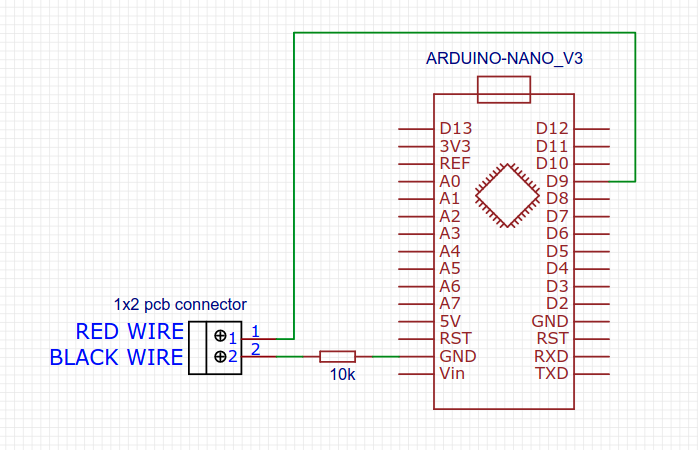
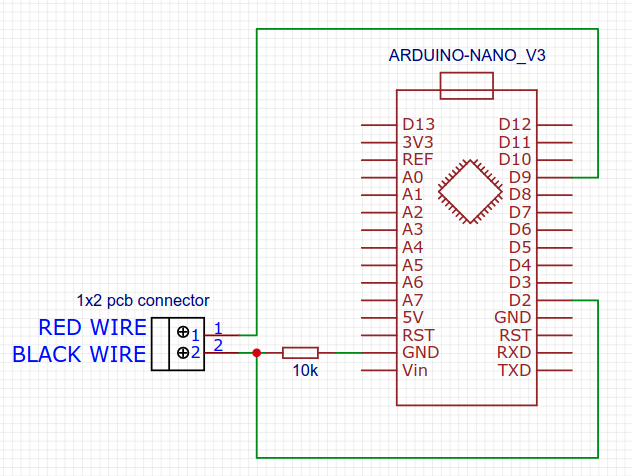
added D2 input to stop signal emitting ; also blink led when signal stopped

Changed region(s): [[0.0, 0.0311, 0.962, 0.9644]]

diff --git a/src/main.cpp b/src/main.cpp
@@ -8,9 +8,12 @@
 // - 50ms @833 hz
 // - 50ms @625 hz
 
+// #define DEBUG // TODO: comment this on release
+
 #include <Arduino.h>
 
 #define OUT_PIN 9
+#define IN_PIN 2
 #define USE_TIMER_1 true
 
 #include <TimerInterrupt.h>
@@ -26,8 +29,30 @@ int val_cnt = 0;
 int phase = 0;
 int phase_cnt = 0;
 
+volatile bool disabled = false;
+volatile uint32_t m_in = millis();
+
 void TimerISR()
 {
+  if (disabled)// && millis() - m_in > 500)
+  {
+    digitalWrite(OUT_PIN, HIGH);
+    auto v = digitalRead(IN_PIN);
+    if (v == LOW)
+    {
+      #ifdef DEBUG
+      Serial.print(millis());
+      Serial.println(" RE-ENABLE");
+      #endif
+      digitalWrite(LED_BUILTIN, LOW);
+      disabled = false;
+    }
+    else
+    {    
+      return;
+    }
+  }
+
   if (phase_cnt > CNT_PHASE)
   {
     ++phase;
@@ -76,15 +101,50 @@ void TimerISR()
   ++phase_cnt;
 }
 
+void inChgISR()
+{
+  //if (millis() - m_in > 500)
+  if (!disabled)
+  {
+#ifdef DEBUG
+    Serial.print(millis());
+    Serial.println(" DISABLED");
+#endif
+    disabled = true;
+
+    m_in = millis();
+  }
+}
+
 void setup()
 {
-  pinMode(9, OUTPUT);
+#ifdef DEBUG
+  Serial.begin(38400);
+  Serial.println("STARTUP");
+#endif
+
+  pinMode(IN_PIN, INPUT);
+  pinMode(OUT_PIN, OUTPUT);
+  pinMode(LED_BUILTIN, OUTPUT);
+  digitalWrite(LED_BUILTIN, LOW);
 
   ITimer1.init();
 
   ITimer1.attachInterrupt(TIMER_FREQ, TimerISR, 0);
+
+  attachInterrupt(digitalPinToInterrupt(IN_PIN), inChgISR, RISING);
 }
+
+uint32_t m_disabledLedBlink = 0UL;
 
 void loop()
 {
+  if (disabled)
+  {
+    if (millis() - m_disabledLedBlink > 100)
+    {
+      digitalWrite(LED_BUILTIN, digitalRead(LED_BUILTIN) == LOW ? HIGH : LOW);
+      m_disabledLedBlink = millis();
+    }
+  }
 }

diff --git a/README.md b/README.md
@@ -19,6 +19,10 @@ Generates a square signal train ( 50% duty ) on pin 9 suitable for a wire tracke
 - 50ms @833 hz
 - 50ms @625 hz
 
+Signal will completely disabled if red/black wire shorts due to triggering on pin 2 ; it will restart when short removed.
+
+[schematic](https://oshwlab.com/lorenzo.delana/iot-wire-tracker-tx)
+
 ![](doc/schematic.png)
 
 ![](doc/tx-signal.png)
@@ -40,7 +44,7 @@ example:
 - connect cable_black to the 10k resistor that in turn connects to GND 
 - go to the other side with the wire tracker rx tool ( not provided ) that amplify into a speaker detected signal moving the point on wires
 - two wires ( corresponding to the counterpart cable_txred and cable_black ) produces high volume on speaker
-- counterverify if cable_unk1 e and cable_unk2 are those searched by connecting them together and if the speaker stop this mean that they are those matching source tx.
+- counterverify if cable_unk1 e and cable_unk2 are those searched by connecting them together and if the speaker stop this mean that they are those matching source tx. during this phase the arduino led will blink fast.
 - place a mark on two wires matched
 - **important** : go to the tx side and disconnect cable_txred, cable_black before to reapply any voltage on cables or tx module could get damaged
 
